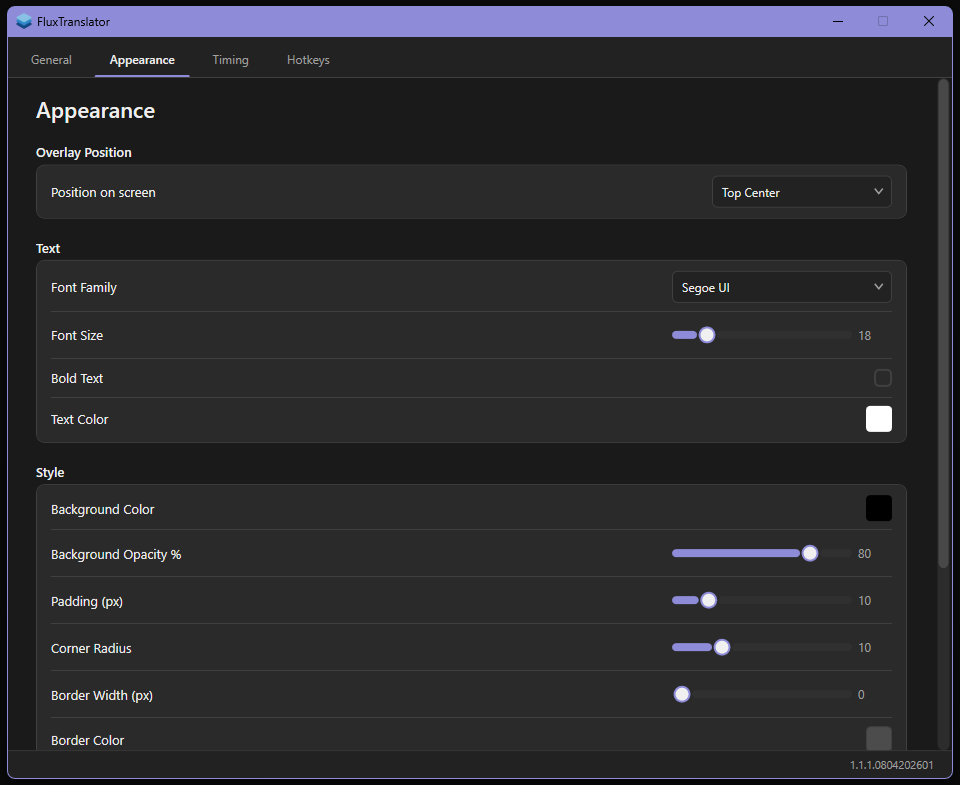
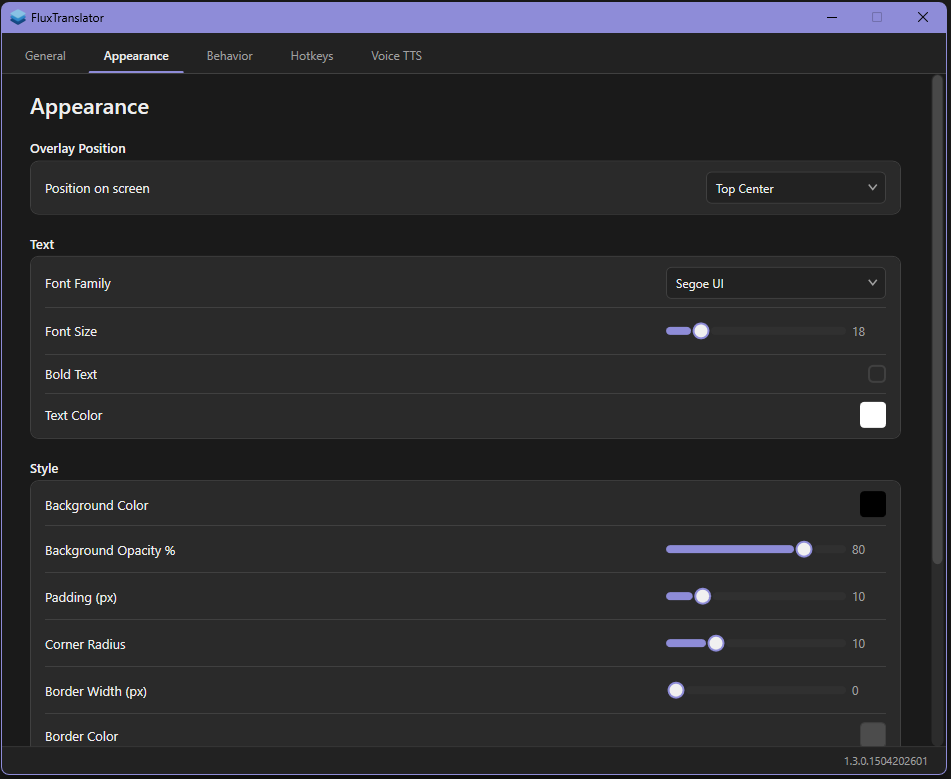
Add desktop.ini for localized file names in assets

diff --git a/README.md b/README.md
@@ -8,14 +8,27 @@ FluxTranslator is a Windows desktop overlay for speech to text translation. It l
    <img src="assets/demo.gif" alt="FluxTranslator" width="900">
 </p>
 
-<table align="center">
+<table align="center" width="100%">
    <tr>
-      <td><img src="assets/GeneralTab.png" alt="General tab" width="320"></td>
-      <td><img src="assets/AppearanceTab.png" alt="Appearance tab" width="320"></td>
+      <td align="center" style="width:50%;padding:8px;">
+         <img src="assets/GeneralTab.png" alt="General" style="max-width:100%;height:auto;border:1px solid #ddd;" />
+      </td>
+      <td align="center" style="width:50%;padding:8px;">
+         <img src="assets/AppearanceTab.png" alt="Appearance" style="max-width:100%;height:auto;border:1px solid #ddd;" />
+      </td>
    </tr>
    <tr>
-      <td><img src="assets/Behavior.png" alt="Behavior tab" width="320"></td>
-      <td><img src="assets/HotkeysTab.png" alt="Hotkeys tab" width="320"></td>
+      <td align="center" style="width:50%;padding:8px;">
+         <img src="assets/BehaviorTab.png" alt="Behavior tab" style="max-width:100%;height:auto;border:1px solid #ddd;" />
+      </td>
+      <td align="center" style="width:50%;padding:8px;">
+         <img src="assets/HotkeysTab.png" alt="Hotkeys" style="max-width:100%;height:auto;border:1px solid #ddd;" />
+      </td>
+   </tr>
+   <tr>
+      <td colspan="2" align="center" style="padding:8px;">
+         <img src="assets/VoiceTTSTab.png" alt="Voice TTS" style="max-width:720px;width:100%;height:auto;border:1px solid #ddd;" />
+      </td>
    </tr>
 </table>
 
